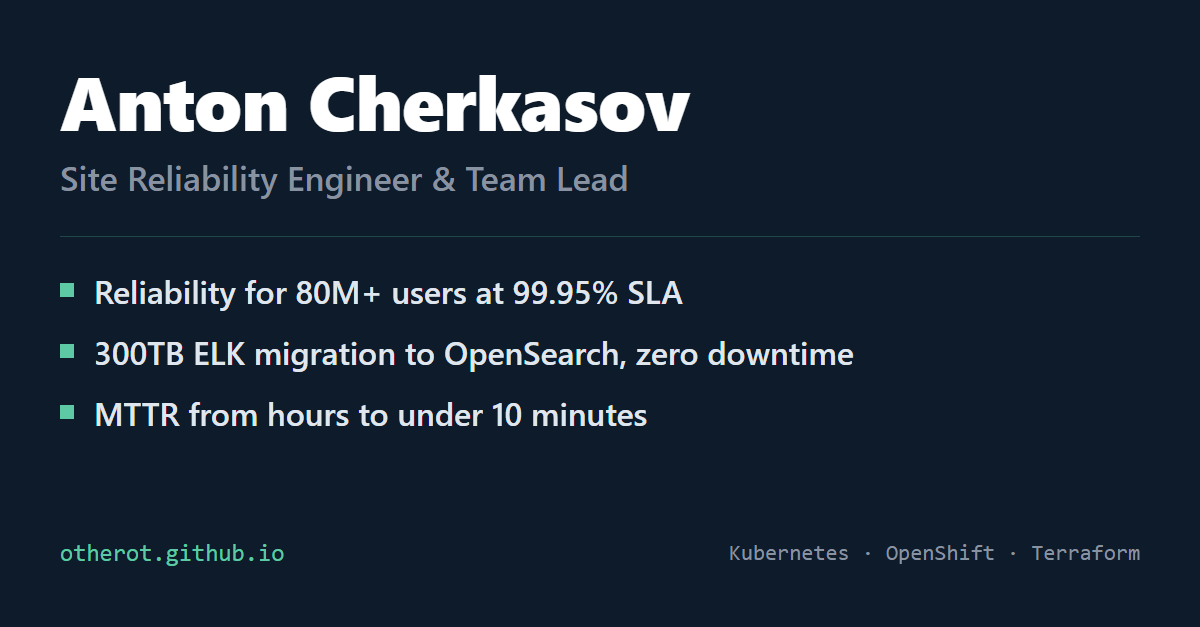
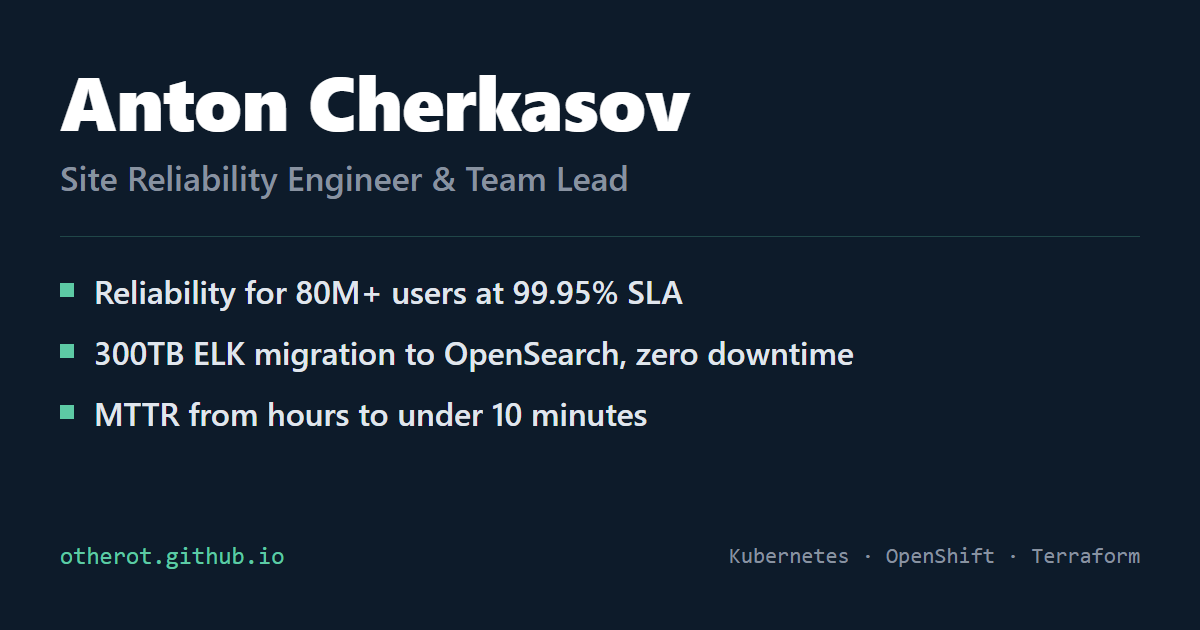
Fix experience stat, trim meta descriptions, add article OG card
Correct 10+ to 15+ years across hero/about/stats and meta tags,
resize OG card to the expected 1200x630, shorten homepage
description/og/twitter copy under platform limits, and add full
OG/Twitter metadata plus a dedicated share card for the ELK
migration article.

Claude-Session: https://claude.ai/code/session_01VvnWhq1pFBpdWNtn46w5h7

diff --git a/index.html b/index.html
@@ -4,21 +4,21 @@
 <meta charset="UTF-8">
 <meta name="viewport" content="width=device-width, initial-scale=1.0">
 <title>Anton Cherkasov — Site Reliability Engineer &amp; Team Lead</title>
-<meta name="description" content="Anton Cherkasov — Site Reliability Engineer &amp; Team Lead with 10+ years of experience in Kubernetes, CI/CD, Terraform and site reliability for high-load banking systems.">
+<meta name="description" content="SRE Team Lead. Kubernetes, observability and reliability for high-load banking systems.">
 <link rel="canonical" href="https://otherot.github.io/">
 <link rel="alternate" hreflang="en" href="https://otherot.github.io/">
 <link rel="alternate" hreflang="x-default" href="https://otherot.github.io/">
 <meta property="og:type" content="website">
 <meta property="og:url" content="https://otherot.github.io/">
 <meta property="og:title" content="Anton Cherkasov — Site Reliability Engineer &amp; Team Lead">
-<meta property="og:description" content="10+ years of experience building reliable infrastructure and automation: Kubernetes, CI/CD, Terraform, SRE for high-load banking systems.">
+<meta property="og:description" content="15+ years building reliable infrastructure. Kubernetes, CI/CD, Terraform, SRE at scale.">
 <meta property="og:image" content="https://otherot.github.io/images/og-card.png">
 <meta property="og:image:width" content="1200">
-<meta property="og:image:height" content="627">
+<meta property="og:image:height" content="630">
 <meta property="og:locale" content="en_US">
 <meta name="twitter:card" content="summary_large_image">
 <meta name="twitter:title" content="Anton Cherkasov — Site Reliability Engineer &amp; Team Lead">
-<meta name="twitter:description" content="10+ years of experience building reliable infrastructure and automation: Kubernetes, CI/CD, Terraform, SRE for high-load banking systems.">
+<meta name="twitter:description" content="15+ years building reliable infrastructure. Kubernetes, CI/CD, Terraform, SRE at scale.">
 <meta name="twitter:image" content="https://otherot.github.io/images/og-card.png">
 <link rel="icon" href="/icons/logo.svg" type="image/svg+xml">
 <link rel="shortcut icon" href="/icons/logo.svg" type="image/svg+xml">
@@ -222,7 +222,7 @@ body.custom-cursor-active,body.custom-cursor-active *{cursor:none!important}
   <div class="container reveal">
     <h1 class="hero-name" data-i18n="hero_name">Anton Cherkasov</h1>
     <p class="hero-title" id="heroTitle"><span id="heroTitleText" aria-hidden="true"></span><span class="type-cursor" aria-hidden="true">_</span></p>
-    <p class="hero-tagline" data-i18n="hero_tagline">10+ years of experience building reliable infrastructure and automation</p>
+    <p class="hero-tagline" data-i18n="hero_tagline">15+ years of experience building reliable infrastructure and automation</p>
     <div class="status-line"><span class="status-dot" aria-hidden="true"></span><span data-i18n="status_line">Open to EU relocation · SRE Lead / Platform Engineering</span></div>
     <div class="hero-links">
       <a href="resume/Anton_Cherkasov_SRE_CV.pdf" class="hero-link" download title="Download CV (PDF)">
@@ -248,9 +248,9 @@ body.custom-cursor-active,body.custom-cursor-active *{cursor:none!important}
 <section class="section" id="about">
   <div class="container reveal">
     <h2 class="section-title" data-i18n="nav_about">About</h2>
-    <p class="about-text" data-i18n="about_text">DevOps/SRE engineer with over 10 years of experience — from system administration to leading a DevOps team at a major bank. Specialized in Kubernetes/OpenShift, CI/CD (Jenkins, ArgoCD), Terraform and Ansible. Maintaining 99.95% SLA for Sberbank's high-traffic services including SBOL and an LLM-based AI assistant.</p>
+    <p class="about-text" data-i18n="about_text">DevOps/SRE engineer with over 15 years of experience — from system administration to leading a DevOps team at a major bank. Specialized in Kubernetes/OpenShift, CI/CD (Jenkins, ArgoCD), Terraform and Ansible. Maintaining 99.95% SLA for Sberbank's high-traffic services including SBOL and an LLM-based AI assistant.</p>
     <div class="about-stats">
-      <div class="stat"><div class="stat-num" data-i18n="stat_exp">10+</div><div class="stat-label" data-i18n="stat_exp_label">years of experience</div></div>
+      <div class="stat"><div class="stat-num" data-i18n="stat_exp">15+</div><div class="stat-label" data-i18n="stat_exp_label">years of experience</div></div>
       <div class="stat"><div class="stat-num" data-i18n="stat_team">~10</div><div class="stat-label" data-i18n="stat_team_label">team members</div></div>
       <div class="stat"><div class="stat-num" data-i18n="stat_sla">99.95%</div><div class="stat-label" data-i18n="stat_sla_label">SBOL SLA</div></div>
     </div>
@@ -415,10 +415,10 @@ const i18n = {
     nav_education: 'Образование',
     hero_name: 'Черкасов Антон',
     hero_title: 'Site Reliability Engineer & Team Lead',
-    hero_tagline: '10+ лет опыта в построении надёжной инфраструктуры и автоматизации',
+    hero_tagline: '15+ лет опыта в построении надёжной инфраструктуры и автоматизации',
     status_line: 'Открыт к переезду в ЕС · SRE Lead / Platform Engineering',
-    about_text: 'DevOps/SRE-инженер с более чем 10-летним опытом — от системного администрирования до руководства командой DevOps в крупном банке. Специализируюсь на Kubernetes/OpenShift, CI/CD (Jenkins, ArgoCD), Terraform и Ansible. Обеспечиваю SLA 99.95% для высоконагруженных сервисов Сбера, включая СБОЛ и ИИ-ассистент на базе LLM.',
-    stat_exp: '10+',
+    about_text: 'DevOps/SRE-инженер с более чем 15-летним опытом — от системного администрирования до руководства командой DevOps в крупном банке. Специализируюсь на Kubernetes/OpenShift, CI/CD (Jenkins, ArgoCD), Terraform и Ansible. Обеспечиваю SLA 99.95% для высоконагруженных сервисов Сбера, включая СБОЛ и ИИ-ассистент на базе LLM.',
+    stat_exp: '15+',
     stat_exp_label: 'лет опыта',
     stat_team: '~10',
     stat_team_label: 'человек в команде',
@@ -494,10 +494,10 @@ const i18n = {
     nav_education: 'Education',
     hero_name: 'Anton Cherkasov',
     hero_title: 'Site Reliability Engineer & Team Lead',
-    hero_tagline: '10+ years of experience building reliable infrastructure and automation',
+    hero_tagline: '15+ years of experience building reliable infrastructure and automation',
     status_line: 'Open to EU relocation · SRE Lead / Platform Engineering',
-    about_text: 'DevOps/SRE engineer with over 10 years of experience — from system administration to leading a DevOps team at a major bank. Specialized in Kubernetes/OpenShift, CI/CD (Jenkins, ArgoCD), Terraform and Ansible. Maintaining 99.95% SLA for Sberbank\'s high-traffic services including SBOL and an LLM-based AI assistant.',
-    stat_exp: '10+',
+    about_text: 'DevOps/SRE engineer with over 15 years of experience — from system administration to leading a DevOps team at a major bank. Specialized in Kubernetes/OpenShift, CI/CD (Jenkins, ArgoCD), Terraform and Ansible. Maintaining 99.95% SLA for Sberbank\'s high-traffic services including SBOL and an LLM-based AI assistant.',
+    stat_exp: '15+',
     stat_exp_label: 'years of experience',
     stat_team: '~10',
     stat_team_label: 'team members',

diff --git a/articles/elk-to-opensearch-migration.html b/articles/elk-to-opensearch-migration.html
@@ -3,9 +3,21 @@
 <head>
 <meta charset="UTF-8">
 <meta name="viewport" content="width=device-width, initial-scale=1.0">
-<title>Migrating 300TB from ELK to OpenSearch with Zero Downtime — Anton Cherkasov</title>
-<meta name="description" content="A technical deep dive into migrating a 300TB, geo-redundant ELK cluster to OpenSearch with zero downtime.">
+<title>Migrating 300TB from ELK to OpenSearch with Zero Downtime</title>
+<meta name="description" content="How we moved 40B documents a day to OpenSearch with geo-redundancy and no downtime.">
 <link rel="canonical" href="https://otherot.github.io/articles/elk-to-opensearch-migration.html">
+<meta property="og:type" content="article">
+<meta property="og:url" content="https://otherot.github.io/articles/elk-to-opensearch-migration.html">
+<meta property="og:title" content="Migrating 300TB from ELK to OpenSearch with Zero Downtime">
+<meta property="og:description" content="How we moved 40B documents a day to OpenSearch with geo-redundancy and no downtime.">
+<meta property="og:image" content="https://otherot.github.io/images/og-elk-migration.png">
+<meta property="og:image:width" content="1200">
+<meta property="og:image:height" content="630">
+<meta property="og:locale" content="en_US">
+<meta name="twitter:card" content="summary_large_image">
+<meta name="twitter:title" content="Migrating 300TB from ELK to OpenSearch with Zero Downtime">
+<meta name="twitter:description" content="How we moved 40B documents a day to OpenSearch with geo-redundancy and no downtime.">
+<meta name="twitter:image" content="https://otherot.github.io/images/og-elk-migration.png">
 <link rel="icon" href="/icons/logo.svg" type="image/svg+xml">
 <link rel="shortcut icon" href="/icons/logo.svg" type="image/svg+xml">
 <meta name="theme-color" content="#0d1b2a">

diff --git a/og/article-card.html b/og/article-card.html
@@ -1,0 +1,44 @@
+<!DOCTYPE html>
+<html lang="en">
+<head>
+<meta charset="UTF-8">
+<title>OG Article Card</title>
+<style>
+html,body{margin:0;padding:0}
+body{
+  box-sizing:border-box;
+  width:1200px;
+  height:630px;
+  overflow:hidden;
+  background:#0d1b2a;
+  color:#fff;
+  font-family:-apple-system,BlinkMacSystemFont,'Segoe UI',Roboto,sans-serif;
+  padding:60px;
+  display:flex;
+  flex-direction:column;
+  justify-content:space-between;
+}
+.title{font-size:56px;font-weight:800;letter-spacing:-.01em;line-height:1.15;max-width:1080px}
+.divider{width:100%;height:1px;background:rgba(93,202,165,.25);margin:36px 0 32px}
+.metrics{display:flex;align-items:center;gap:16px;font-size:28px;font-weight:600;color:#e0e6ed;font-family:'SF Mono','Fira Code',monospace}
+.metrics .sep{color:#5DCAA5}
+.footer{display:flex;align-items:center;justify-content:space-between}
+.author{font-size:24px;color:#e0e6ed;font-weight:600}
+.url{font-family:'SF Mono','Fira Code',monospace;font-size:24px;color:#5DCAA5}
+</style>
+</head>
+<body>
+
+<div class="top">
+  <div class="title">Migrating 300TB from ELK to OpenSearch with Zero Downtime</div>
+  <div class="divider"></div>
+  <div class="metrics"><span>300TB</span><span class="sep">·</span><span>40B docs/day</span><span class="sep">·</span><span>zero downtime</span></div>
+</div>
+
+<div class="footer">
+  <div class="author">Anton Cherkasov</div>
+  <div class="url">otherot.github.io</div>
+</div>
+
+</body>
+</html>

diff --git a/scripts/generate-og.js b/scripts/generate-og.js
@@ -1,11 +1,19 @@
 const { chromium } = require('playwright');
 const path = require('path');
 
+const cards = [
+  { src: '../og/card.html', out: '../images/og-card.png' },
+  { src: '../og/article-card.html', out: '../images/og-elk-migration.png' },
+];
+
 (async () => {
   const browser = await chromium.launch();
-  const page = await browser.newPage({ viewport: { width: 1200, height: 627 } });
-  await page.goto('file://' + path.resolve(__dirname, '../og/card.html'));
-  await page.screenshot({ path: path.resolve(__dirname, '../images/og-card.png') });
+  const page = await browser.newPage({ viewport: { width: 1200, height: 630 } });
+  for (const card of cards) {
+    await page.goto('file://' + path.resolve(__dirname, card.src));
+    const out = path.resolve(__dirname, card.out);
+    await page.screenshot({ path: out });
+    console.log('Wrote ' + card.out.replace('../', ''));
+  }
   await browser.close();
-  console.log('Wrote images/og-card.png');
 })();

diff --git a/og/card.html b/og/card.html
@@ -8,7 +8,7 @@ html,body{margin:0;padding:0}
 body{
   box-sizing:border-box;
   width:1200px;
-  height:627px;
+  height:630px;
   overflow:hidden;
   background:#0d1b2a;
   color:#fff;
